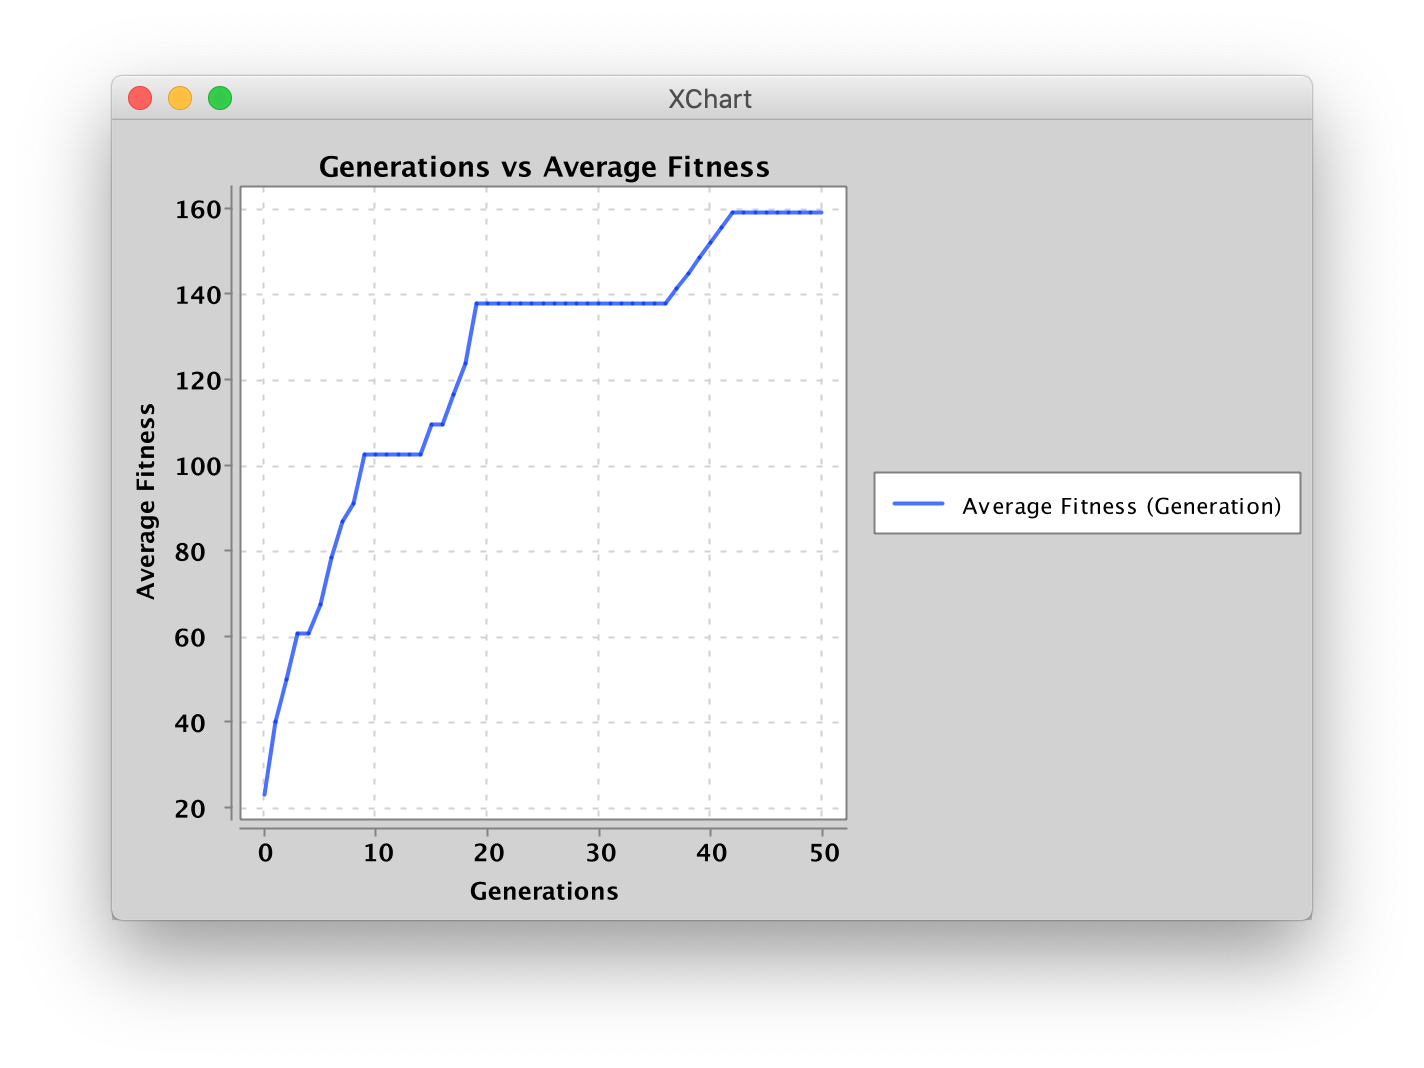
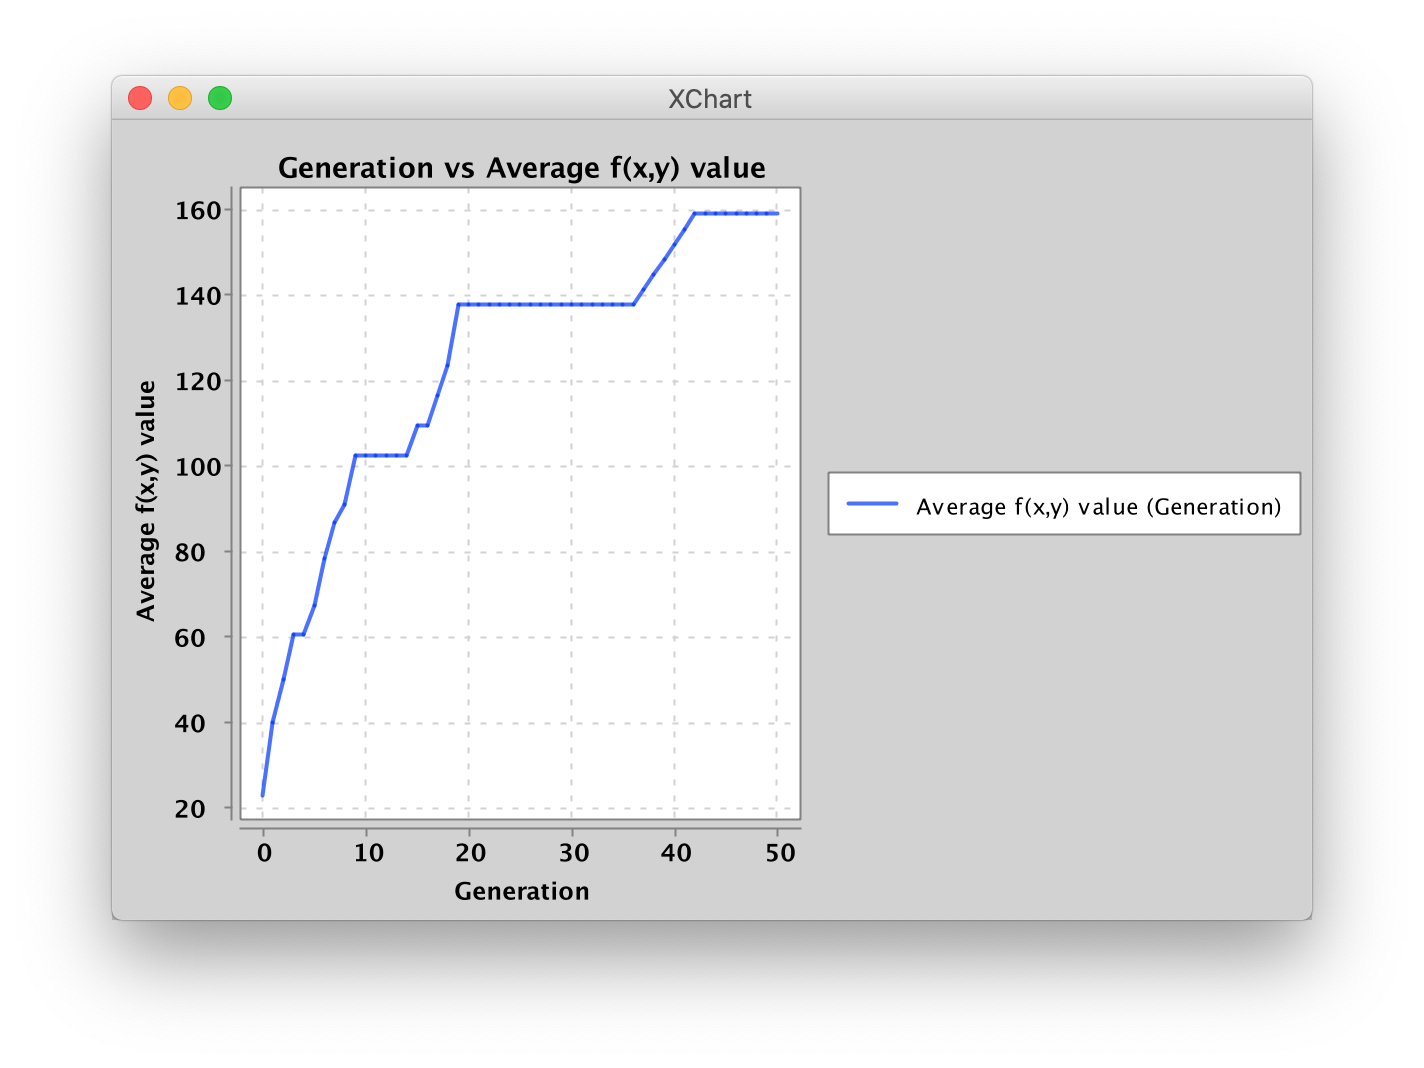
Improve plot axis description

diff --git a/ga-java/src/br/inatel/c210/ga/plot/PlotUtils.java b/ga-java/src/br/inatel/c210/ga/plot/PlotUtils.java
@@ -26,10 +26,10 @@ public class PlotUtils
 
         // set up
         XYChart chart = QuickChart.getChart(
-            "Generations vs Average Fitness",
-            "Generations",
-            "Average Fitness",
-            "Average Fitness (Generation)",
+            "Generation vs Average f(x,y) value",
+            "Generation",
+            "Average f(x,y) value",
+            "Average f(x,y) value (Generation)",
             dataX.stream().mapToDouble(Double::doubleValue).toArray(),
             dataY.stream().mapToDouble(Double::doubleValue).toArray());
 
